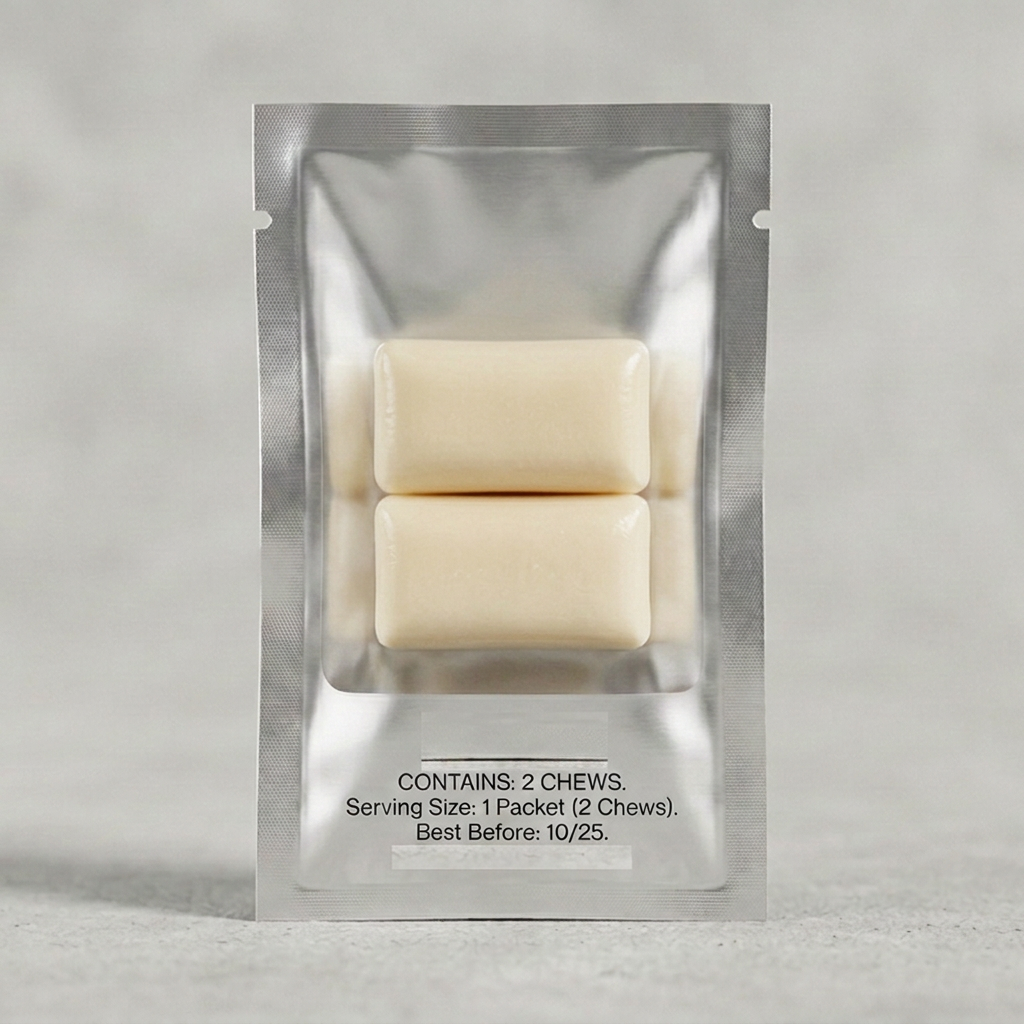
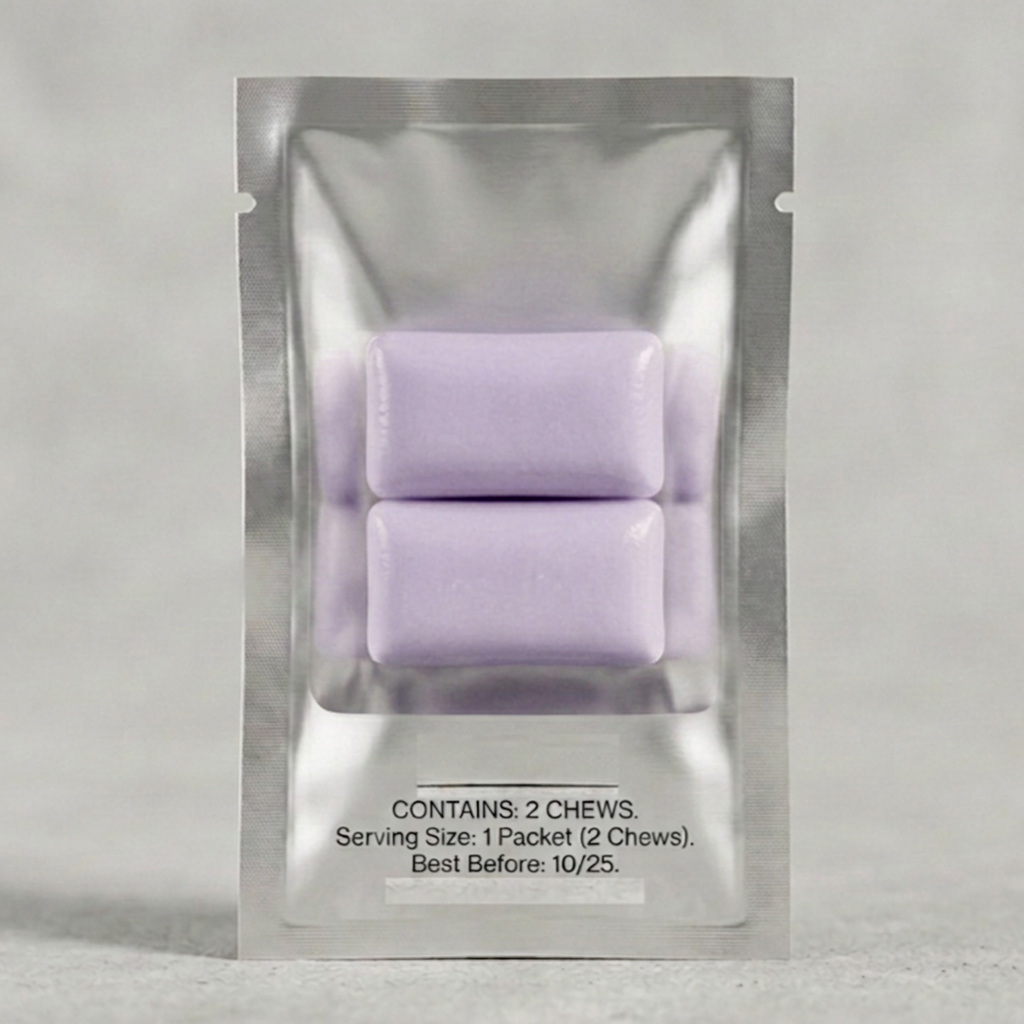
Manifesto III — N°003 packet-back: real product photo + lavender chews
Real product photo replaces the placeholder (was a copy of N°001
back). User-supplied 1008×1066 source center-cropped to 1008×1008
then LANCZOS-upscaled to 1024×1024 to match N°001 + N°002 back-image
series dimensions.

Chew color updated from "pearl-champagne" to "lavender" per user
direction. Caption + alt-text + zh-TW Mandarin all reflect the new
color (兩顆薰衣草色咀嚼錠).

Image content: silver-foil edges with clear PET back window, two
soft lavender rectangular chews stacked vertically inside the heat-
sealed pocket, "CONTAINS: 2 CHEWS. / Serving Size: 1 Packet (2
Chews). / Best Before: 10/25." panel at bottom.

Changed region(s): [[0.0, 0.0625, 0.7812, 0.9375], [0.5625, 0.1562, 0.625, 0.1875]]

diff --git a/brand-manifesto.html b/brand-manifesto.html
@@ -1341,10 +1341,10 @@ body.locked #cursor-quote { opacity: 0 !important; }
     <div class="product-group">
       <div class="packet-duo">
         <img src="signal_packet_front.png" alt="signal packet front — matte red foil, 'send the right' headline in black with debossed IPA wordmark /sɪɡˈnɑːl/">
-        <img src="signal_n003_back.png" alt="signal N°003 back — clear AlOx film showing two pearl-champagne chews stacked vertically; soft honey/champagne tone (natural color of urolithin A + cellular substrates); 'CONTAINS: 2 CHEWS' panel at bottom">
+        <img src="signal_n003_back.png" alt="signal N°003 back — clear AlOx film showing two soft lavender chews stacked vertically; 'CONTAINS: 2 CHEWS' panel at bottom">
       </div>
-      <div class="packet-caption">signal N&deg;003 &mdash; evening cellcare &middot; two pearl chews</div>
-  <div lang="zh-TW" class="packet-caption zh-mandarin">signal N°003 — 夜間細胞保養 · 兩顆珠光咀嚼錠</div>
+      <div class="packet-caption">signal N&deg;003 &mdash; evening cellcare &middot; two lavender chews</div>
+  <div lang="zh-TW" class="packet-caption zh-mandarin">signal N°003 — 夜間細胞保養 · 兩顆薰衣草色咀嚼錠</div>
     </div>
   </div>
 
